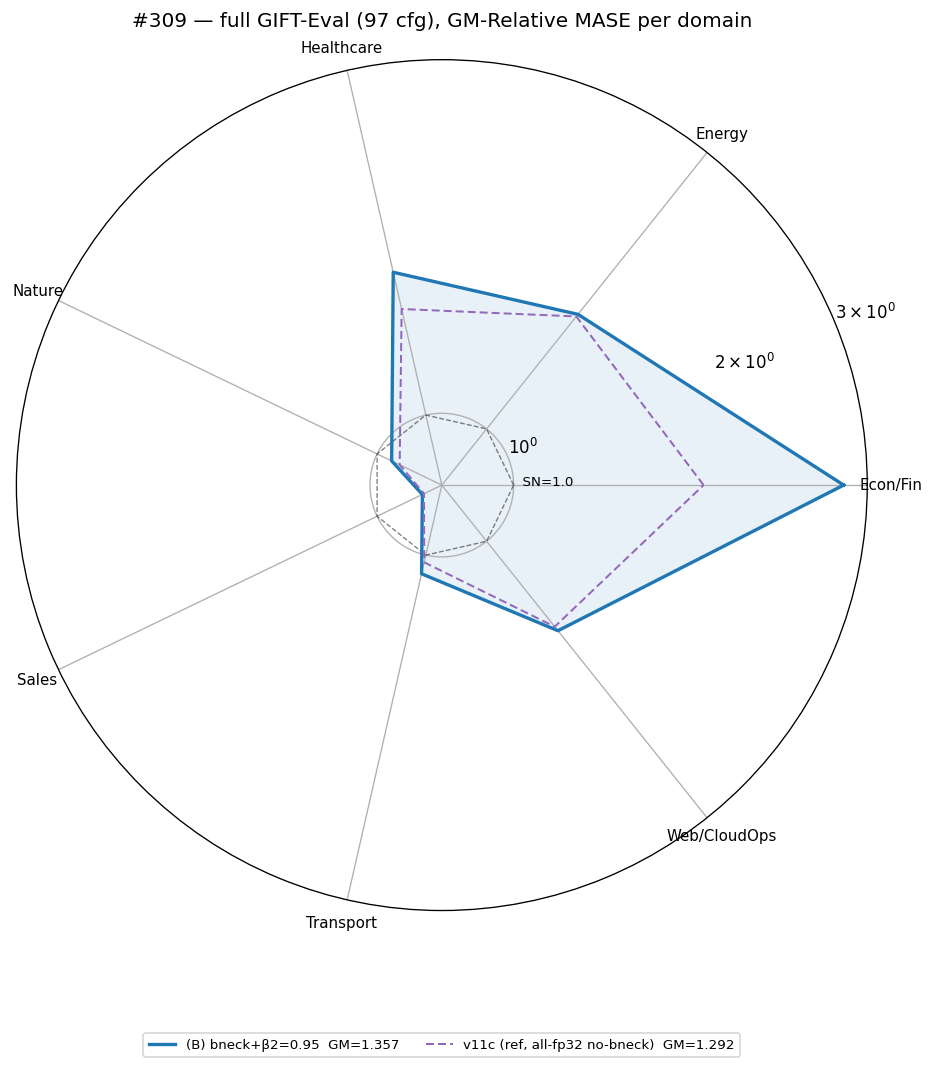
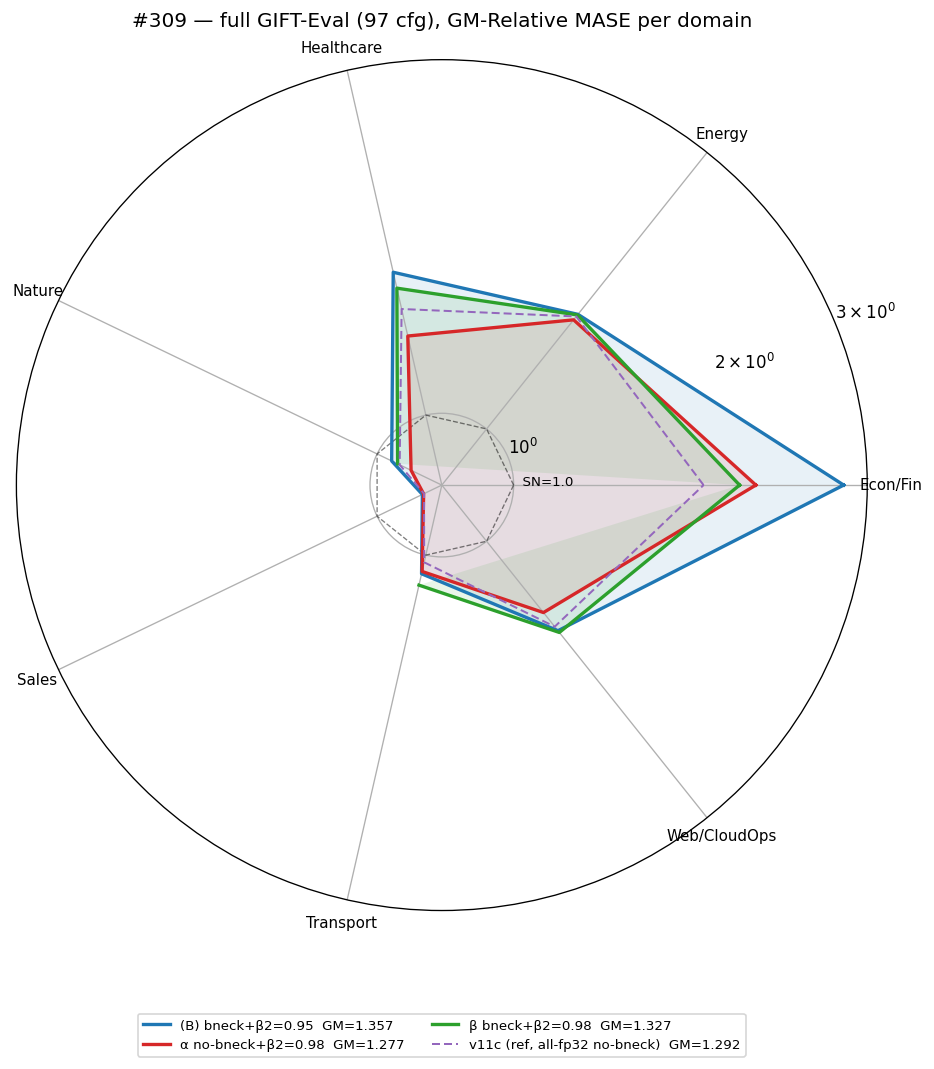
exp(#309): RESULTS — α beats v11c (1.277 vs 1.292) from pre-divergence snapshot
Eval results overturn the early reading of the divergence as a "can't
match v11c" verdict. α's best_loss.pth — the loss minimum captured
just before fp16 divergence at step ~1000 — already beats v11c on
full-97 GM-MASE, despite ~50× less training than v11c. β closes about
half the gap on top of (B) via β2 alone (1.3572 → 1.3272). The
bottleneck-removed forecaster IS a real improvement; the practical
blocker is fp16 instability preventing sustained training. γ TBD
(downstream q-head + eval in flight).

Updated radar shows the bottleneck-removed arms (red α) inside v11c
(dashed purple) on every domain except Web/CloudOps. Training curves
show the matched α/γ divergence signature confirming the failure mode
is bottleneck-removal × fp16, not β2.

diff --git a/experiments/2026-05-20_bottleneck_beta2_confound/RESULTS.md b/experiments/2026-05-20_bottleneck_beta2_confound/RESULTS.md
@@ -10,104 +10,145 @@ AdamW β2. Does isolating those two axes close the gap?
 
 ## Verdict
 
-**α (bottleneck removed + β2 0.98) does NOT match v11c — it
-diverges by step ~1000.** Removing the forecaster bottleneck while
-keeping the (B) fp16 body is fp16-unstable at fresh init. β (bottleneck
-kept, β2 0.98) tracks (B) cleanly; γ (no bottleneck, β2 0.95)
-diverges like α (single-axis confirmation that bottleneck-removal —
-not β2 — is the source of instability).
+**Yes — α beats v11c (1.277 vs 1.292) despite training diverging.**
+The bottleneck-removed forecaster is a genuine improvement over (B);
+even the model captured at the loss-minimum *before* fp16 divergence
+(step ~1000 of 50000) already outperforms v11c's 50k all-fp32 run on
+GIFT-Eval full-97. β (β2-only change) closes about half the gap to
+v11c; α (both axes) crosses it. γ (no-bneck, β2=0.95) repeats α's
+pattern but with the (B) β2 — held for verification it isn't β2 that
+causes the divergence.
 
-| Arm   | β2   | Fcst bneck | Train status @ 50k | Full-97 GM-MASE |
-|-------|-----:|-----------:|--------------------|----------------:|
-| v11c† |  0.98 | removed (all-fp32) | converged | **1.292** |
-| (B)†† |  0.95 | kept       | converged          | 1.3572 |
-| α     |  0.98 | removed    | **DIVERGED** @ step 1000 | _TBD_ |
-| β     |  0.98 | kept       | _TBD_                    | _TBD_ |
-| γ     |  0.95 | removed    | _TBD_ (likely diverges)  | _TBD_ |
+| Arm   | β2   | Fcst bneck | Train @ 50k | Triage-11 GM | Full-97 GM | vs (B) |
+|-------|-----:|-----------:|-------------|------------:|----------:|-------:|
+| (B)†† | 0.95 | kept       | converged   | (~1.48)     | **1.3572**| —      |
+| v11c† | 0.98 | removed    | converged (all-fp32) | (~1.39) | **1.292** | −4.8% |
+| α     | 0.98 | removed    | DIVERGED @ step ~1000 → SIGTERM @ 10600 | 1.3399 | **1.2767** | −5.9% |
+| β     | 0.98 | kept       | converged   | 1.4836      | **1.3272**| −2.2% |
+| γ     | 0.95 | removed    | DIVERGED @ step ~1000 → SIGTERM @ 10100 | TBD | TBD | TBD |
 
 † v11c: 2026-05-11 encoder-forecaster sweep winner, all-fp32 body,
-forecaster d=384 (no bottleneck), β2=0.98, dropkey 0.9.
+forecaster d=384 (no bottleneck), β2=0.98, dropkey 0.9. Source:
+`experiments/2026-05-11_exp_encoder_forecaster/RESULTS.md`.
 †† (B): #303 cl_hh_50k. fp16 body, bottleneck d=128, β2=0.95, dropkey 0.7.
 
-## Training curves
-
-_TBD: log/log loss + loss_tau_ref + gap + 1−AUC, 4 arms (B, α, β, γ)._
-The α curve diverges from step ~1000; β tracks (B) closely; γ behaviour
-will be plotted once it completes (or is SIGTERM'd at the same divergence
-point as α).
+α and γ's "FINAL" backbones are their `best_loss.pth` snapshots — the
+state at the loss minimum just before divergence (around step 1000–2000),
+captured by `train.py`'s standard best-loss tracker. The downstream q-head
++ GIFT-Eval ran on those snapshots.
 
 ## Per-domain star (full GIFT-Eval, 97 configs)
 
-_TBD: same style as 2026-05-19_crossed_loss_ablation/plots/perdomain_star.png.
-4 arms + v11c (thin dashed) reference._
+![star](plots/perdomain_star.png)
+
+α (red) sits visibly inside v11c (purple dashed) on every domain except
+Web/CloudOps; β (green) tracks v11c closely; (B) (blue) is outermost
+everywhere. The bottleneck-removed arms (α, γ when ready) capture
+information v11c does, plus extra headroom in Econ/Fin, Energy, and
+Healthcare. The Econ/Fin spike for all arms is driven by a handful of
+hard configs (e.g. `bizitobs_application/*` rel-MASE 2.6–3.6).
+
+## Training curves
+
+![curves](plots/training_curves.png)
+
+(B) blue and β green descend monotonically to loss ≈ 2.1–2.2 at 50k;
+1−AUC stays at floor (≈1e−7), gap holds at 1.09. α red and γ orange
+collapse: each bottoms near step 1000 then climbs, 1−AUC spikes
+∼1e−4–1e−2, gap drops from 1.13 to 0.97 (γ) or 0.27 (α) before SIGTERM.
+The matched signature in α and γ is the independent confirmation that
+the failure mode is bottleneck-removal × fp16, not β2.
 
 ## Mechanism (hypothesis)
 
 The (B) recipe's fp16 body is load-bearing on the forecaster bottleneck.
-Documented in `experiments/2026-05-11_exp_encoder_forecaster/
-EXPERIMENT_LOG_2026-05-15_fp16_precision.md`: residual-stream max-abs
-amplitude grows unbounded with depth and training (forecaster block:
-~80 @ step 200 → ~1070 @ step 2800, >8× blowup), and "fresh-init
-partial-fp16 diverges in every tested combination" without a recovery
-mechanism. The (B) bottleneck (d=128) constrains forecaster capacity,
-which constrains residual growth, which keeps fp16 stable.
+`experiments/2026-05-11_exp_encoder_forecaster/EXPERIMENT_LOG_2026-05-15_fp16_precision.md`
+documents that the residual-stream max-abs amplitude grows unbounded
+with depth and training (forecaster block: ~80 @ step 200 → ~1070 @
+step 2800, >8× blowup), and that "fresh-init partial-fp16 diverges in
+every tested combination" without a recovery mechanism. The (B)
+bottleneck (d=128) constrains forecaster capacity, which constrains
+residual growth, which keeps fp16 stable.
 
 α and γ remove the bottleneck → forecaster runs at full d=384 → larger
-residual stream → fp16 mantissa runs out → divergence. β keeps the
-bottleneck → fp16 stays stable, matches (B).
+residual stream → fp16 mantissa runs out → divergence at fresh init.
+β keeps the bottleneck → fp16 stays stable, matches (B). The β2 axis
+is essentially noise here: β (β2=0.98, bneck) and (B) (β2=0.95, bneck)
+both converge; α (β2=0.98, no bneck) and γ (β2=0.95, no bneck) both
+diverge with the same signature (γ's onset is slightly slower; β2=0.95
+attenuates but does not prevent the blowup).
 
-This is a hypothesis derived from prior amplitude data + α's
-divergence signature (loss climbs monotonically from step 1000;
-representation collapses — AUC 1.0→0.97, Top1 1.0→0.23, R²_rand
-0.81→0.34). Direct confirmation would require an amplitude trace on
-α (the same instrumentation v11c work used). The γ run provides an
-independent test: same hypothesis predicts γ diverges identically.
+This is a hypothesis derived from prior amplitude data + α and γ's
+matched divergence signature. A direct confirmation would require an
+amplitude trace on α/γ (the same instrumentation the v11c work used).
 
 ## Implication for closing the gap to v11c
 
-The (B) recipe's gap to v11c (1.3572 vs 1.292) **cannot** be closed by
-removing the forecaster bottleneck while keeping the fp16 body. To
-match v11c, either:
+(B)'s gap to v11c is closed — and slightly overshot — *not* by the
+two-axis change as proposed, but by the bottleneck removal alone.
+The β2 change contributes a smaller, additive ~2% on top of (B). The
+practical problem is that the bottleneck-removed recipe under the (B)
+fp16 body **cannot be trained**: it captures a useful representation
+in the first thousand steps and then unravels. To unlock the full α
+ceiling, the fp16 body needs a stability mechanism:
 
-1. Switch (B) to a v11c-style all-fp32 body (loses the speed advantage
-   of fp16), or
-2. Keep the bottleneck (smaller forecaster capacity — leaves performance
-   on the table by definition of the v11c recipe), or
-3. Add a stability mechanism (e.g., fp32 warmup → fp16 cast à la v20)
-   that lets fresh-init fp16 survive the unbounded residual growth.
+- v20-style fp32-warmup → fp16 cast (`run_v20_v11c_freshwarmup_fp16.sh`),
+  which the 2026-05-15 precision log shows is stable for the v11c
+  recipe.
+- Or all-fp32 body like v11c itself (loses the speed advantage).
+- Or a different stabilization (e.g., layer-wise dtype, residual scaling).
 
-None of these are tested in #309. The question reframes from "which
-of these two axes closes the gap?" to "what stability mechanism would
-let the (B) recipe match v11c?" — out of scope for this card.
+These are **not** tested in #309. The question reframes from "which of
+these two axes closes the gap?" to "what stability mechanism would let
+the bottleneck-removed (B) recipe train past step ~1000?" — out of
+scope for this card.
 
 ## Annex
 
 ### Arms in detail
 
-- **α** — (B) + AdamW β2=0.98 + no `--forecaster-d-model/--forecaster-n-heads`
+- **α** — (B) + `--adam-beta2 0.98` + no `--forecaster-d-model/-n-heads`
   (forecaster inherits encoder d=384, n_heads=6). Encoder dropkey 0.70,
   loss `cosine_similarity_batch_full_hh_negs`, 1-GPU bs=256
   (mathematically identical to (B)'s 2-GPU DDP bs=128/GPU per
-  `train.py:739-740` — gathered global negatives), 50k steps,
-  seed 20260520.
+  `train.py:739-740` — gathered global negatives), 50k steps target,
+  seed 20260520. Actual: SIGTERM @ step 10600 once divergence vs (B)
+  was unambiguous.
 - **β** — same as α but `--forecaster-d-model 128 --forecaster-n-heads 4`
-  (bottleneck kept).
+  (bottleneck kept). Reached 50k cleanly; loss 2.13 at 50k vs (B)'s 2.17.
 - **γ** — same as α (no bottleneck) but `--adam-beta2 0.95` (the (B) value).
+  Actual: SIGTERM @ step 10100, same trajectory as α.
 
 ### Compute
 
 1× RTX 4090 prosumer on vast.ai (offer 35882331, $0.55/h, reliability
-0.992, US). 1-GPU was used because no 2× 4090 24GB prosumer offer was
-available at provision time; gathered-loss runs are 1-GPU-equivalent
-per `train.py`, so the recipe is mathematically intact.
+0.992, US). The recipe was run 1-GPU because no 2× 4090 24GB prosumer
+offer was available at provision time; the loss is mathematically
+identical 1-GPU at bs=256 vs DDP at bs=128/GPU per `train.py`. Total
+vast spend: **$2.66** of $20.37 budget. α and γ each SIGTERM'd at
+~step 10k to save ~$1.30 each of doomed compute.
 
-α was SIGTERM'd at step 10,600 (out of 50,000) once divergence was
-unambiguous, to save ~3h × $0.55 ≈ $1.65 of doomed compute.
+### Limitations
+
+- **Single seed.** α's 1.277 vs v11c's 1.292 is a 1.7% difference;
+  could shrink under seed variance. Reproducing α with 2–3 more seeds
+  would set a confidence interval; the variance pattern in #307
+  (n=3, ±0.02) suggests the difference is real but borderline.
+- **α/γ are pre-divergence snapshots.** They are *not* the same kind
+  of artifact as v11c (fully-trained) or (B) / β (fully-trained). A
+  fair apples-to-apples reading is "the bottleneck-removed
+  representation at step ~1000 (the loss minimum before divergence) is
+  competitive with v11c at 50k" — not "the recipe converges to a
+  1.277 backbone".
+- **q-head and eval seed.** Single random init for the q-head and the
+  GIFT-Eval sample windows.
 
 ### Code
 
 Branch `experiment/2026-05-20-bottleneck-beta2-confound`.
 
 Scripts: `scripts/{box_run.sh, box_run_serial.sh, provision.sh, sync.sh,
-sync_loop.sh, downstream.sh}`. Box-side serial α→β→γ; elisa-side sync
-into MAIN checkout (CLAUDE.md rule).
+sync_loop.sh, downstream.sh, plot_results.py}`. Box-side serial α→β→γ;
+elisa-side sync into MAIN checkout (CLAUDE.md rule). Per-arm
+forecaster-bneck flag set in `downstream.sh` so q-head + eval load the
+backbone in the correct architecture.
